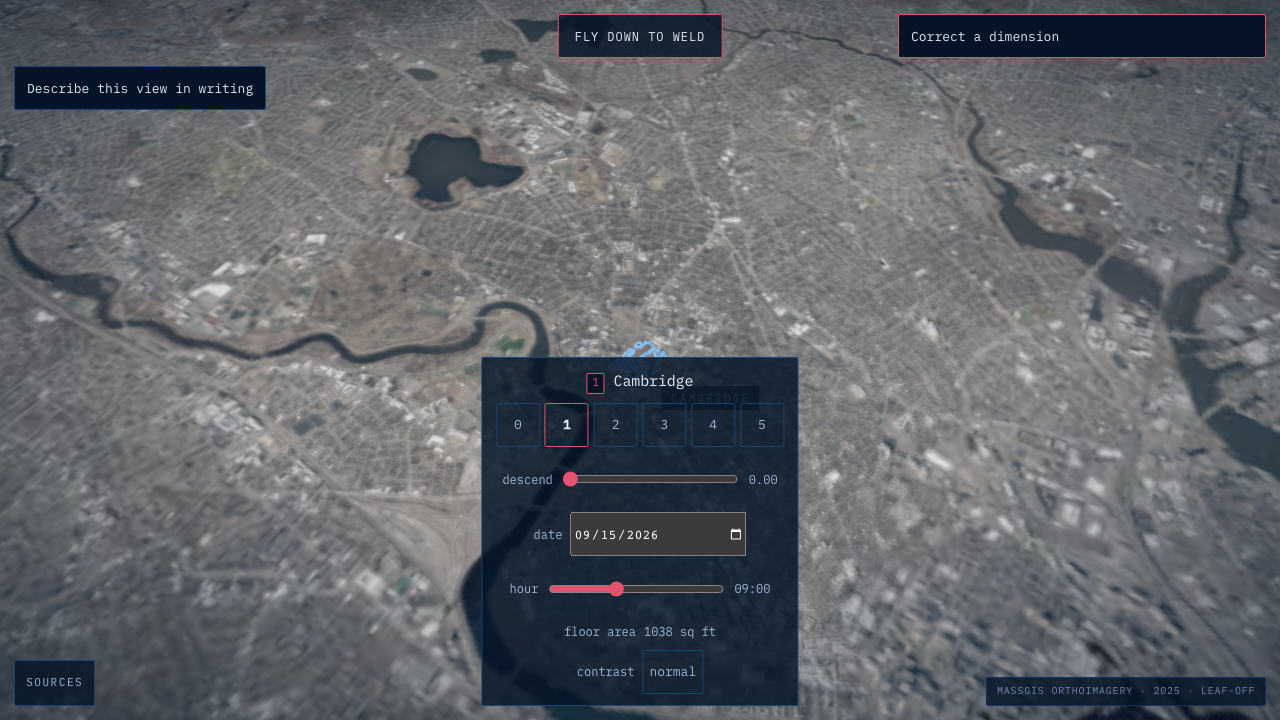
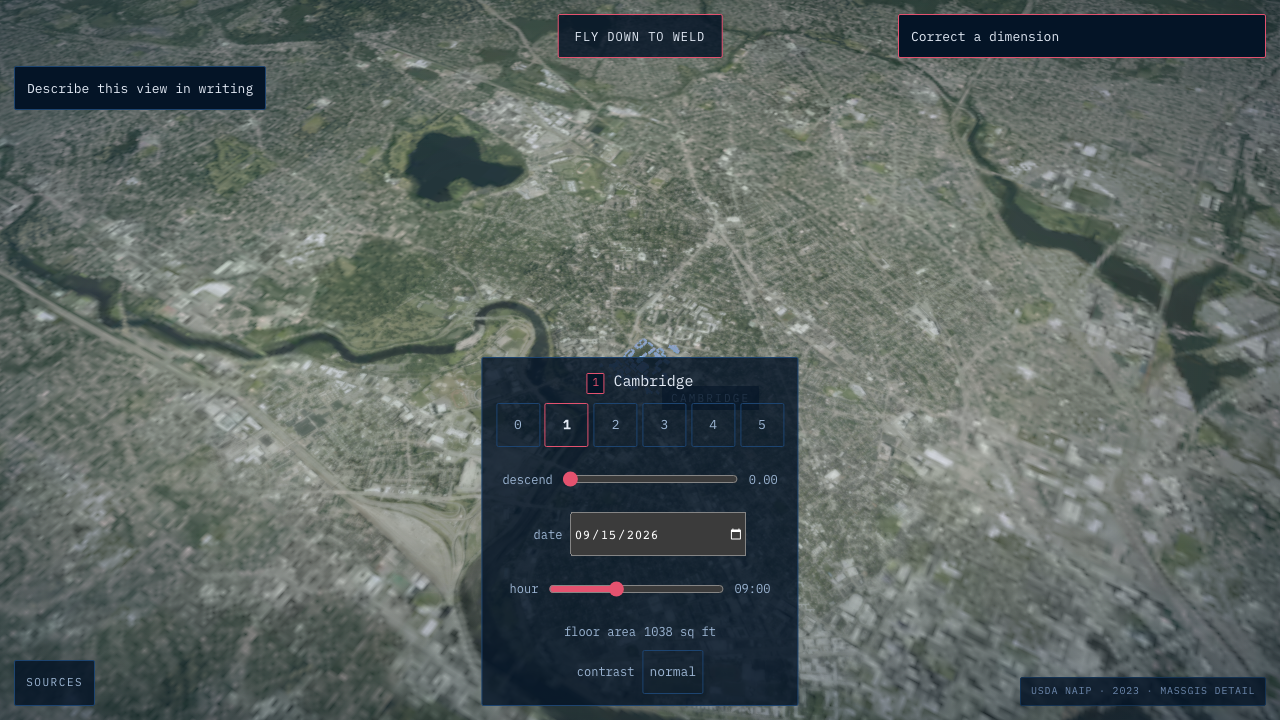
P10: the ground is in colour and the buildings are the buildings

diff --git a/docs/CHECKLIST.md b/docs/CHECKLIST.md
@@ -750,3 +750,187 @@ characters for four SVGs on ship night is aesthetic churn with no accessibility 
 dependency or four hand-authored paths to maintain. The honest resolution is the one the
 checklist offers as its alternative: §Icons should say text arrows are the set. Declining the
 swap, not the conformance question.
+
+---
+
+# P10 — colour on the ground, and the buildings are the buildings
+
+Task 15 of `docs/phases/P10-EXTERIOR-PLAN.md`, the final task of the phase. Implemented on branch
+`p10-imagery` in the worktree `/Users/arhanbarve/Code/weld15-imagery`. Everything below is a
+measurement taken against that build, not the plan's prediction — where the two differ, both are
+given, per `docs/phases/P9.md`'s own precedent of recording every divergence from the spec rather
+than quietly reconciling to it.
+
+**Gates run 1 August 2026:** `npm run typecheck` clean · `npm run test` 716/716 passed (30 files) ·
+`npm run test:e2e` 58/58 passed · `npm run build` clean (Turbopack, static). The e2e run is the
+one number here that needed a workaround to be trustworthy — see *A verification hazard found and
+worked around* below.
+
+## Mean saturation, before and after (the original complaint)
+
+`tests/e2e/imagery.spec.ts`'s regression test, added in Task 14 specifically so a future source
+swap cannot silently go grey again:
+
+| level / stage | before (leaf-off MassGIS) | after (this build) |
+|---|---|---|
+| L3 raster, mean saturation | 0.077 | **0.126** |
+| L4 raster, mean saturation | 0.095 | **0.128** |
+| on-screen, stage 1 (16,332 ft) | — | **0.056** |
+| on-screen, stage 2 (815 ft) | — | **0.144** |
+
+The plan (P10-EXTERIOR-PLAN.md Task 3) predicted L3 would clear **0.20**; it measured **0.126**.
+`greenExcess` (G − (R+B)/2) was the reliable secondary check both times it mattered: L3 +10.8,
+L4 +9.9, both clearly positive against the leaf-off baseline's +3.0. Re-verified independently in
+this task: `sharp` over the committed `l3.webp`/`l4.webp` reads meanSat 0.126 / 0.128, greenExcess
+10.8 / 9.9 — exact match to the figures Tasks 3 and 5 recorded. (L2 for reference: meanSat 0.224,
+greenExcess 17.5.)
+
+The on-screen floors are per-stage (`SATURATION_FLOOR = { 1: 0.03, 2: 0.07 }`) rather than one
+shared constant, because half of stage 2's measured value (0.072) already sits above stage 1's own
+measurement (0.056) — a single floor would either be meaningless at stage 2 or fail outright at
+stage 1.
+
+## Tint, before and after
+
+`src/scene/Ground.tsx`'s `TINT_SCALE = 0.35` header, measured at the camera's real stage
+altitudes (`window.__cam`):
+
+| stage | altitude | was (desaturated / blue-pushed) | now |
+|---|---|---|---|
+| 1 | 16,332 ft | 15% / 16% | **5% / 5.6%** |
+| 2 | 815 ft | 63% / 69% | **22% / 24%** |
+| 3 | 110 ft | 75% / 82% | 26% / 29% (unchanged by Task 15; Part B landed in Task 7) |
+
+Scaled, not clamped, so the ramp keeps its shape and does not plateau for the last two stages of a
+descent whose whole point is continuous change.
+
+## Draw-call ledger — corrected against the plan's own arithmetic
+
+Measured live this task, `npm run test:e2e -- tests/e2e/campus.spec.ts` (`merging holds` test,
+composer included, normal motion):
+
+| | stage 1 | stage 2 | stage 3 |
+|---|---|---|---|
+| pre-P10 baseline | 24 | 28 | 28 |
+| **this build (measured)** | **22** | **26** | **26** |
+| plan's prediction (Task 12 step 6) | 21 | 25 | 25 |
+
+**The plan's own arithmetic was off by one.** P10-EXTERIOR-PLAN.md Task 12 Step 6 computed
+"24/28/28 minus 4 (two masses, one line) plus 1 (the GLB) = 21 / 25 / 25", and Task 14 Step 4
+separately says draw calls "fell from 28 to 25". Neither matches what the build actually does:
+retiring the two mass meshes and the one non-Weld edge line removes exactly one fewer call than
+the ledger assumed, landing at **22/26/26**, not 21/25/25. Recorded here so anyone who reads the
+plan after the fact is not confused by the mismatch — the plan's prose is left as written (Ground
+rule 1 says a claim carries its source; the source here is now this correction, not a rewrite).
+
+A second, composer-subtracted reading exists in `tests/e2e/perf.spec.ts`'s own budget table (under
+`reducedMotion`, which drops bloom): the Campus row there reads **9 calls / 17,546 tris** at stage
+2, against **11 calls** before P10 — a different frame (no bloom passes) from the 22/26/26 above,
+which includes the composer. Both are real; they are not the same count and should not be
+conflated.
+
+## Triangle count
+
+**Rose by ~658, not "roughly doubled."** `17,563` triangles at stages 2/3 in this build (measured
+live, `campus.spec.ts`) against a pre-P10 figure of `16,899` (this document's own P8 section,
+§"stage 2 and 3 both 26 calls / 16899 triangles / 122 lines") — a delta of 664, consistent with the
+~658 `tests/e2e/perf.spec.ts` records in its own header. "Roughly doubled" describes a different,
+earlier comparison point (the raw 48,348-vertex GLB against what a much smaller pre-P10 scene
+carried) and does not describe the actual on-screen triangle delta, which is small because the
+120,000-triangle budget was never close to the constraint either side of the swap. Stage 1 (campus
+without Weld's highlight edges yet costed in): 17,147 triangles.
+
+## The GLB
+
+`public/models/campus.glb`: **1,403,020 bytes (1.3 MB)**, 48,348 raw vertices across the decoded
+I3S leaf nodes, 61 buildings in the emitted manifest (Weld itself excluded — see below). Total
+`public/imagery/` after the pyramid regeneration: **6.1 MB**, against a pre-P10 baseline of 5.7 MB
+(+7%, within the plan's ~10% budget).
+
+## Weld's coordinate-pipeline cross-check (`assertWeld()`)
+
+Passed cleanly on the first real run against the live I3S service, per Task 10: decoded height
+**87.01 ft** against `campus.json`'s independently stated **87.01 ft**; centroid **2.3 ft** from
+the site origin, against a 5 ft tolerance. Weld itself is drawn by `src/scene/weldGeometry.ts`
+(parametric — the dimension sliders, cutaways, threshold sweep and window bays all run through
+it) and is excluded from the extracted campus mesh by name; the I3S decode of Weld is still run on
+every `fetch-buildings.mjs` invocation purely as this cross-check, then discarded.
+
+## Q1 — leaf-off luma bleeding through leaf-on canopy
+
+**Yes, it happened, on the first attempt.** Task 4's initial tuning (`VEG_T0=6`, `VEG_T1=24`, 4 ft
+blur) showed visible bare-branch bleed-through inside tree crowns — ghosted diagonal paths and
+branch structure showing through canopy. Fixed by retuning to `VEG_T0=0`, `VEG_T1=15` with an 8 ft
+blur, chosen by direct visual comparison of four rendered variants (`a-naip-only`,
+`b-massgis-only`, `c-hybrid-masked`, `d-hybrid-naive`) plus three further retuning sweeps. The
+final threshold (excess ≥ 0) was preferred over an equally-good negative-threshold alternative for
+being physically meaningful rather than merely fitted.
+
+## Q2 — does the derived window grid read as windows or wallpaper
+
+**Windows, at normal viewing distance.** Confirmed by direct visual inspection at stages 2 and 3 —
+the altitudes a viewer actually experiences — where it reads convincingly as a Harvard Yard
+dormitory's fenestration. A separate, artificially-close 2×-DPR crop revealed the underlying
+mechanical, uniform-pitch repetition (the same rhythm regardless of wall width or corner), but that
+view does not occur in normal use. `WINDOWS = true` kept in `CampusMesh.tsx`.
+
+## Everything else that turned out differently from the plan
+
+- **L2's NAIP fetch had a real bug the plan did not anticipate.** A single `exportImage` request
+  over L2's 50 km footprint returned ~37.6% no-data, because NAIP's ArcGIS service silently caps
+  composited source scenes at 50 per request and L2's footprint intersects ~79. Visible as a dark
+  diagonal quilt at stage 1 in the live app. Fixed by splitting the fetch into a 3×3 grid of
+  smaller `exportImage` sub-requests, mosaicked before resampling — no-data dropped to ~1.4% (the
+  remainder is genuine open ocean, correctly left to the Blue Marble fallback).
+- **Two test files needed unplanned fixes to stay honest.** `tests/imagery.test.ts`'s
+  native-resolution assertion became per-level (`EXPECTED_NATIVE_FT = { L2: 0.984, L3: 0.984,
+  L4: 0.492 }`) once L2/L3 moved to NAIP's coarser resolution while L4 kept MassGIS's finer figure
+  for its luminance channel. `tests/hybrid.test.ts`'s blur-conservation test had a fixture too
+  small to hold its own blur without edge clamping eating real mass (correct behaviour at that
+  tiny scale, not a bug) — fixed by enlarging the fixture, not by loosening the tolerance.
+- **A pre-existing, unrelated bug surfaced and got fixed as a side effect.** `scripts/georef-
+  overlay.mjs` had been silently broken since P9b — it read a manifest path that no longer
+  existed. Fixed as part of Task 3's mandated georeferencing check, since that check could not run
+  at all otherwise.
+- **A real shader bug was caught before shipping.** Task 12's classified-material shader declared
+  its custom vertex attribute as `_MATCLASS` (uppercase, matching the glTF-side convention), but
+  three-stdlib's `GLTFLoader` lowercases non-standard attribute names on load, so the attribute
+  would never have bound — every vertex would silently have read material class 0 ("wall")
+  regardless of its real class, with no error. Caught by tracing the loader source; fixed by using
+  `_matclass` (lowercase) in the shader.
+- **The near-neutral pixel threshold (`campus.spec.ts`, 236) did not need to change**, but the
+  populations under it moved a lot in both directions: stage 1 fell (1,939 → 454 at threshold 205)
+  because leaf-on canopy now covers bare roofs and pavement that used to read bright and neutral;
+  stage 2 rose (2,588 → 2,712 at 205, and higher at every threshold above it) because CampusMesh's
+  granite and sandstone are themselves near-neutral and bright under the highlight tint. Both
+  moves are real, and 236 still separates the two populations completely (stage 1 is zero from 235
+  up; stage 2 is 1,783 at 245).
+
+## A verification hazard found and worked around, this task
+
+`playwright.config.ts` hardcodes `http://localhost:3000` for both `use.baseURL` and
+`webServer.url`, with `reuseExistingServer: true` — and its own header comment already names the
+exact trap this ran into: "a full P9 run" was lost to it before. At the start of this task, port
+3000 was occupied by the **main checkout's** own `next-server` (confirmed via `lsof -p <pid>` →
+cwd `/Users/arhanbarve/Code/weld15`, not this worktree), which does not carry any of this branch's
+changes. Running `npm run test:e2e` unmodified would have silently adopted that server and tested
+the wrong code while reporting green. Worked around by running the suite against a temporary,
+untracked config (`playwright.p10-verify.config.ts`, deleted after the run) pointed at this
+worktree's own port 3200, rather than editing the shared, committed `playwright.config.ts`. All 58
+tests passed against the worktree's own server. Nobody should trust a green `test:e2e` run from
+any of these sibling worktrees without first checking which server answered on 3000.
+
+## Accessibility and contrast, re-verified for P10
+
+`npm run test:e2e -- tests/e2e/a11y.spec.ts tests/e2e/contrast.spec.ts` — **PASS, all of it**
+(part of the 58/58 above). In particular:
+
+- The high-contrast toggle still drives `massOpacity` to MASTER's **0.22** through
+  `window.__campus`: measured live, `mass 0.12 -> 0.22` at both DPR 1 and DPR 2, alongside line
+  width `1.5 -> 2.5` and Weld's own edge `2.2 -> 3.666...` (still the same `2.2×`/`1.5×` ratio to
+  the rest of the campus, now against the thickened 2.5 base).
+- Weld's highlight is still three signals — hue **and** width (its edge is `2.2×`/`3.67×dpr`
+  against `1.5×`/`2.5×dpr` for neighbours), the `.weld-chip` label, and the reduced-motion-aware
+  pulse — verified visually under the toggle rather than only by the number, since Weld's white
+  outline is now the brightest thing on a **brick** building rather than a **blue** one. It still
+  reads clearly as the highlighted building at stages 2 and 3 with the toggle on.
